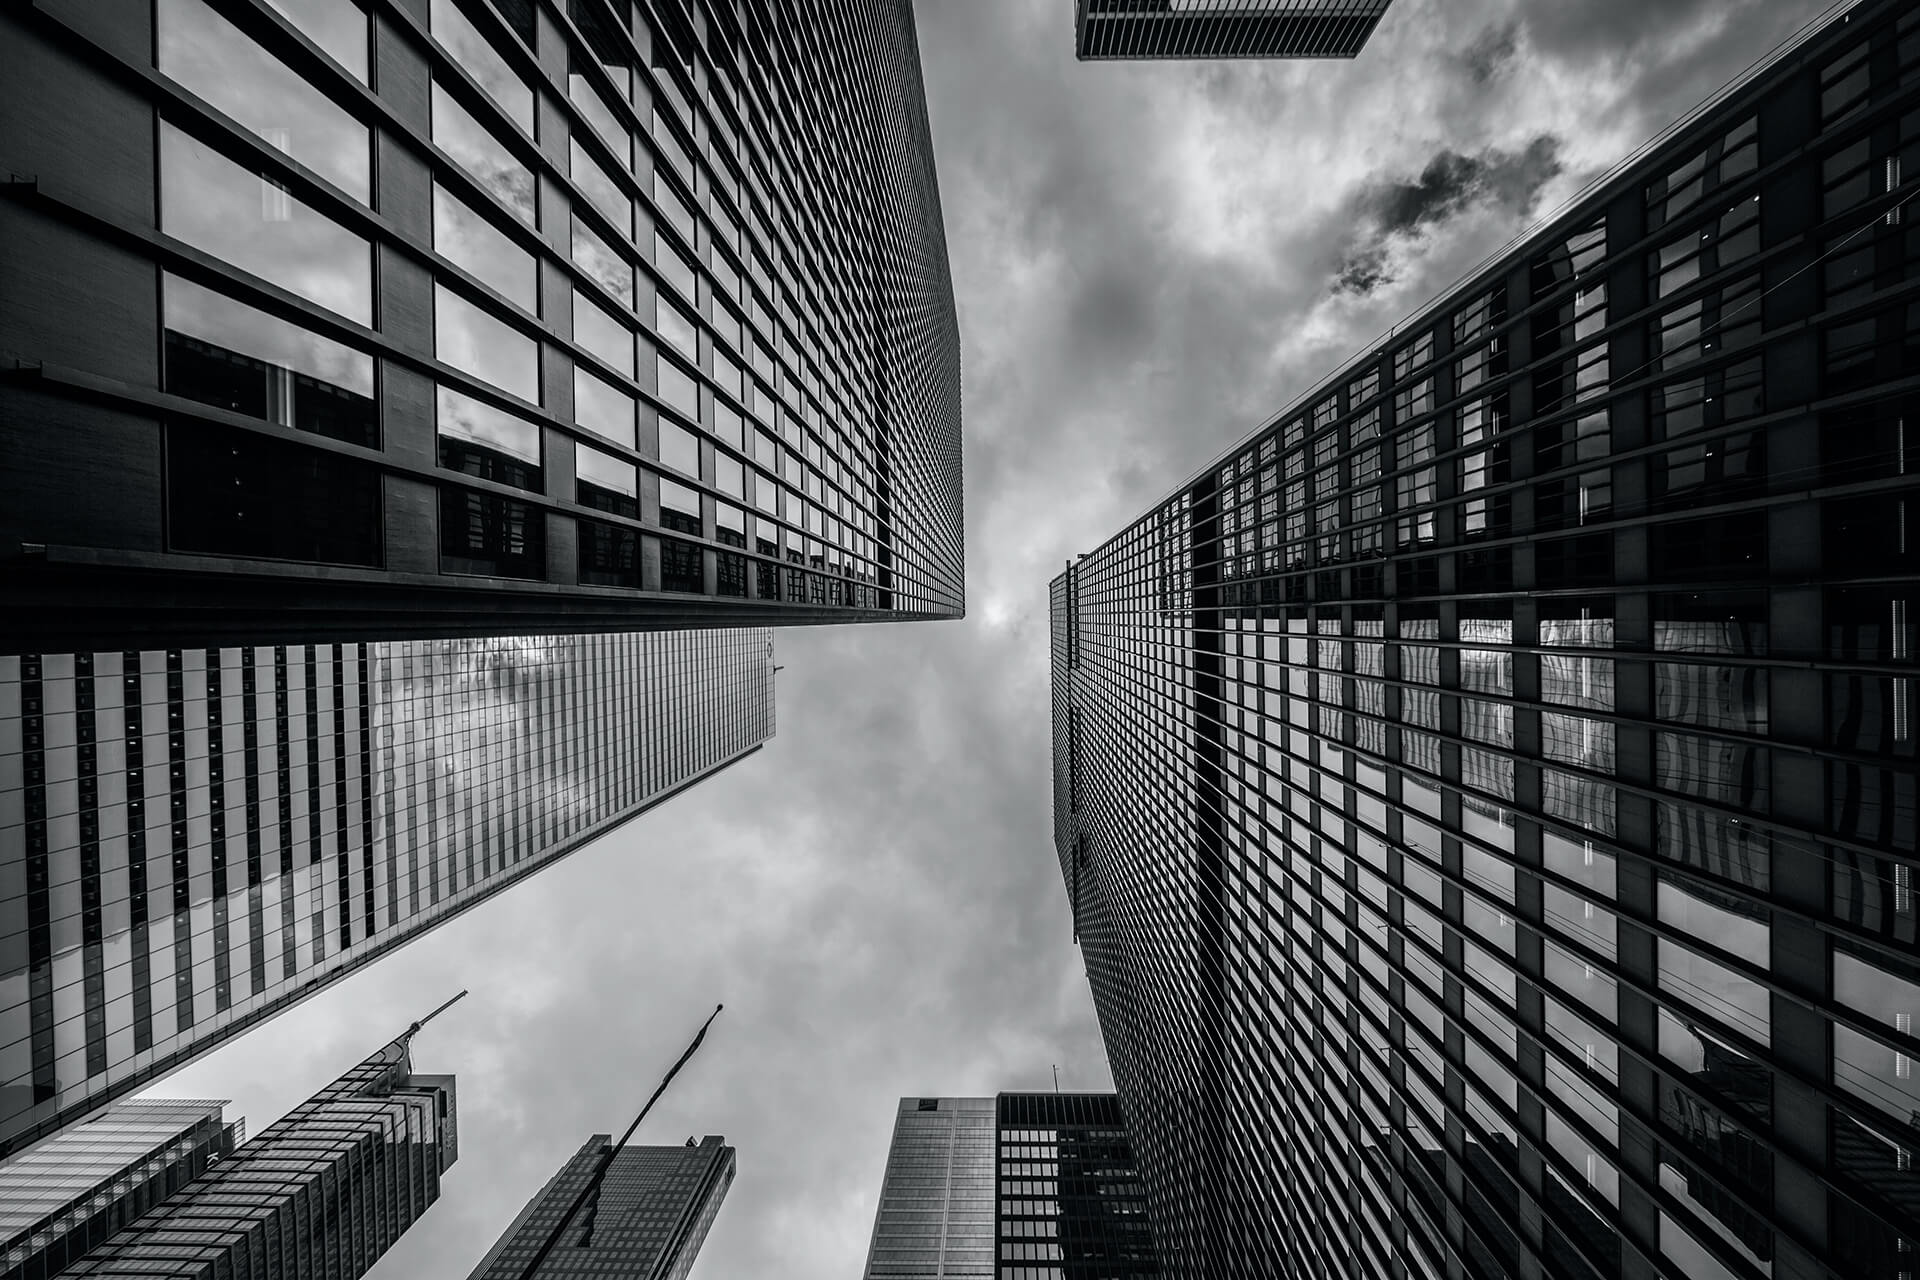
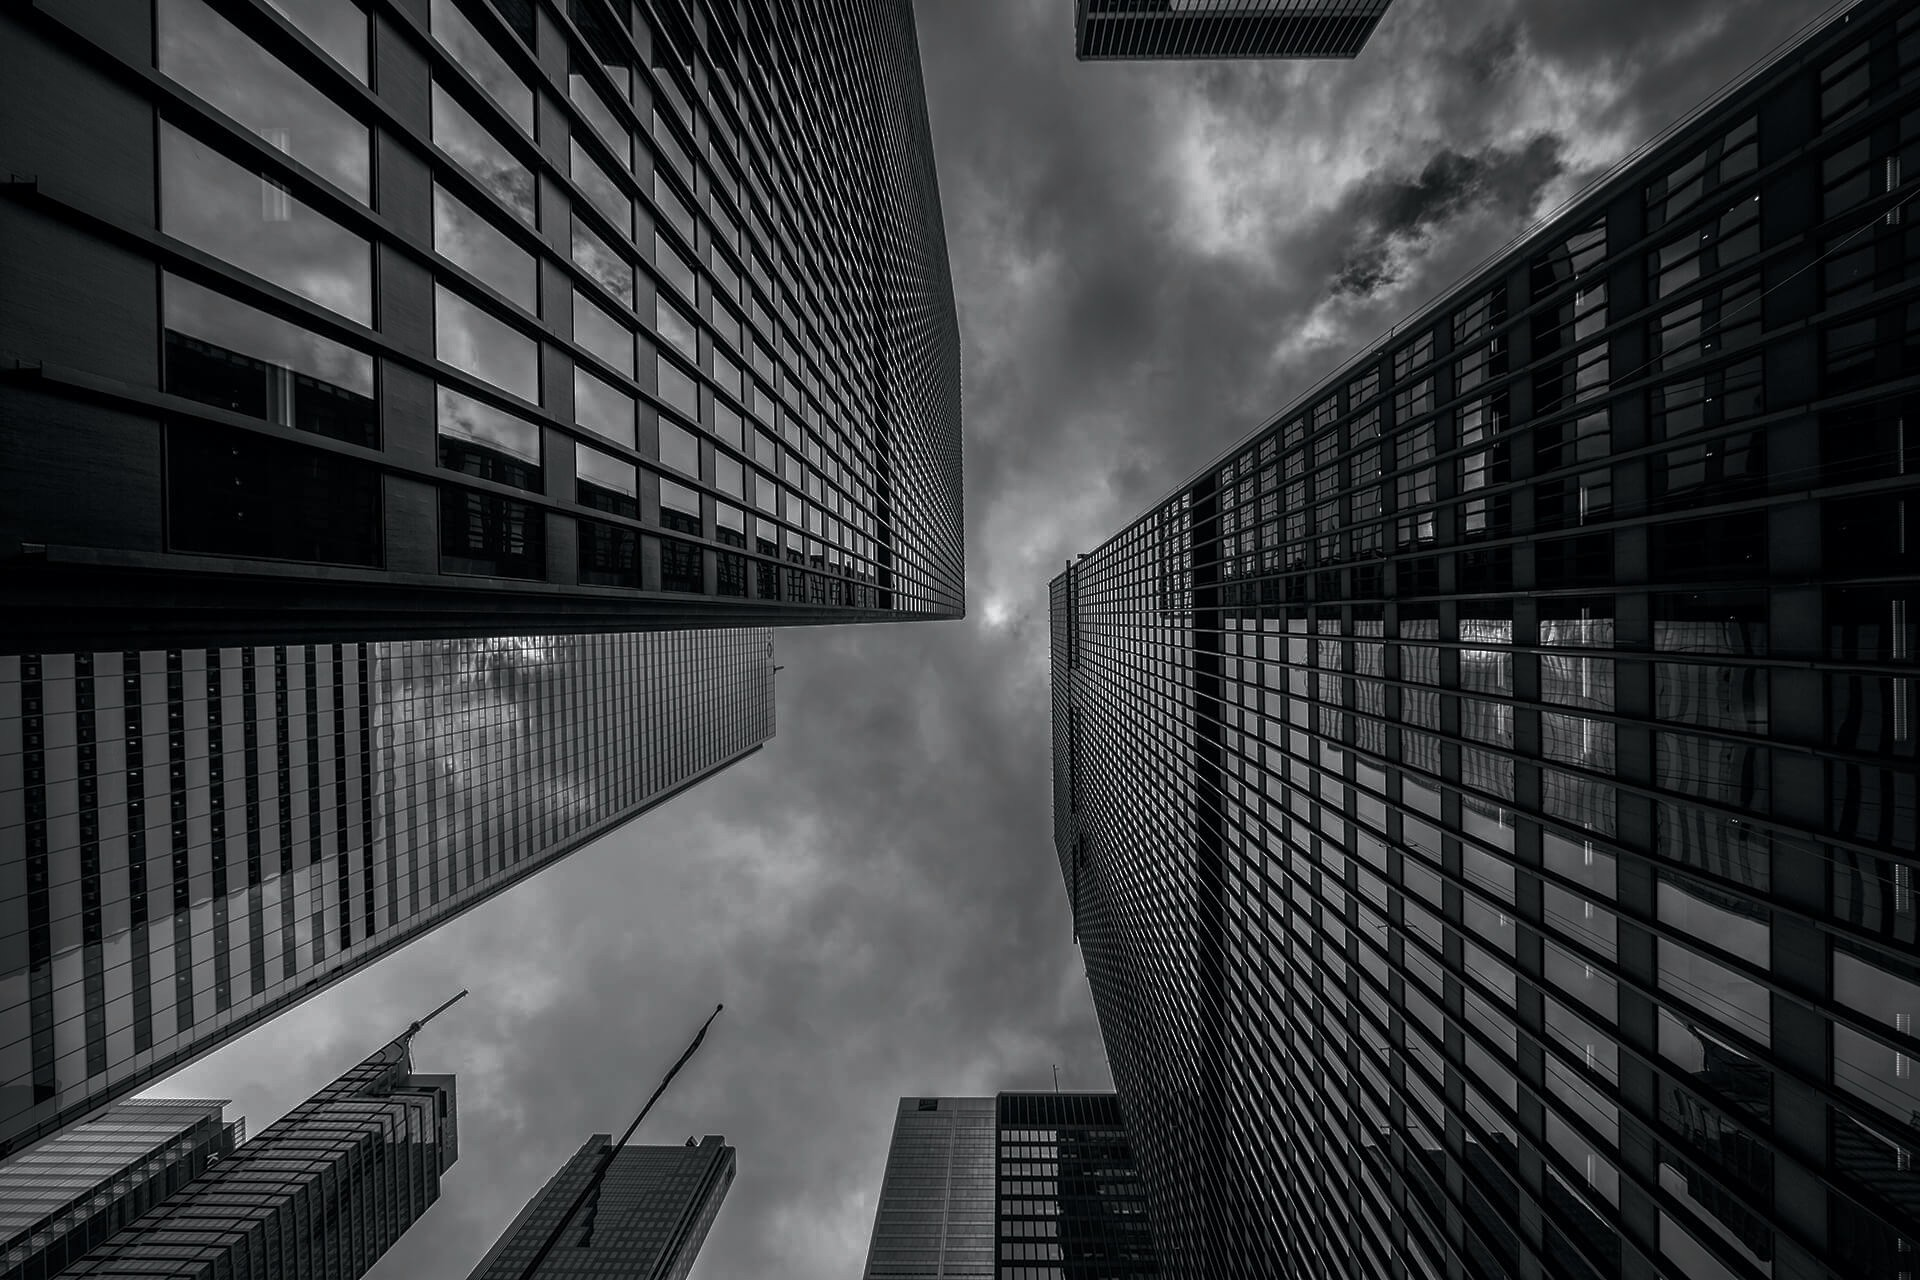
background

diff --git a/index.html b/index.html
@@ -248,7 +248,7 @@
     </section><!-- /Resume Section -->
 
     <!-- Services Section -->
-    <section id="services" class="services section" style="background: url('assets/img/Untitled.png') no-repeat center center; background-size: cover; ">
+    <section id="services" class="services section" style="background: url('assets/img/stats-bg.jpg') no-repeat center center; background-size: cover; ">
 
       <!-- Section Title -->
       <div class="container section-title" data-aos="fade-up">

diff --git a/assets/css/main.css b/assets/css/main.css
@@ -862,6 +862,7 @@ section,
   background-color: var(--surface-color);
   box-shadow: 0px 5px 90px 0px rgba(0, 0, 0, 0.1);
   padding: 60px 30px;
+  width: 100%;
   transition: all ease-in-out 0.3s;
   border-radius: 18px;
   border-bottom: 5px solid var(--surface-color);
